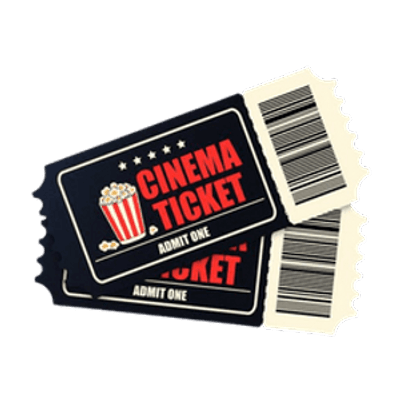
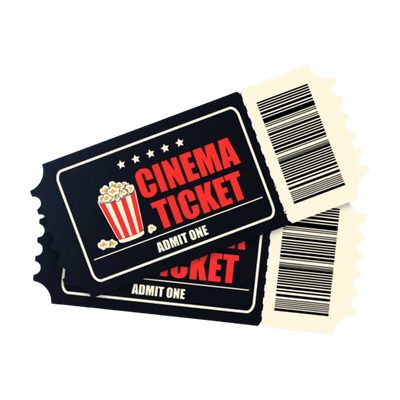
added ticket picture

Changed region(s): [[0.06, 0.18, 0.87, 0.84], [0.81, 0.18, 0.84, 0.21], [0.75, 0.15, 0.78, 0.18]]

diff --git a/style.css b/style.css
@@ -90,7 +90,7 @@
     background-position: center;
     position: absolute;
     top: 130px;
-    right: 250px;
-    width: 500px;
-    height: 450px;
+    right: 385px;
+    width: 400px;
+    height: 400px;
 }
